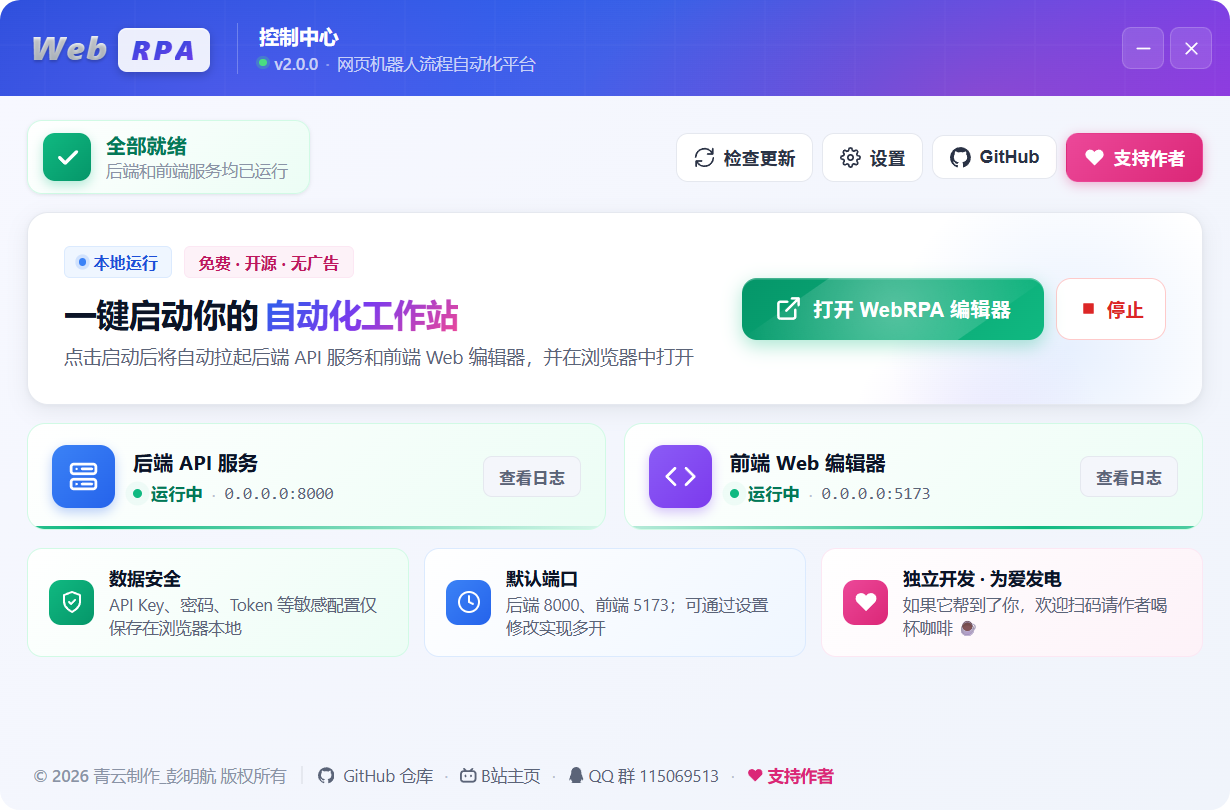
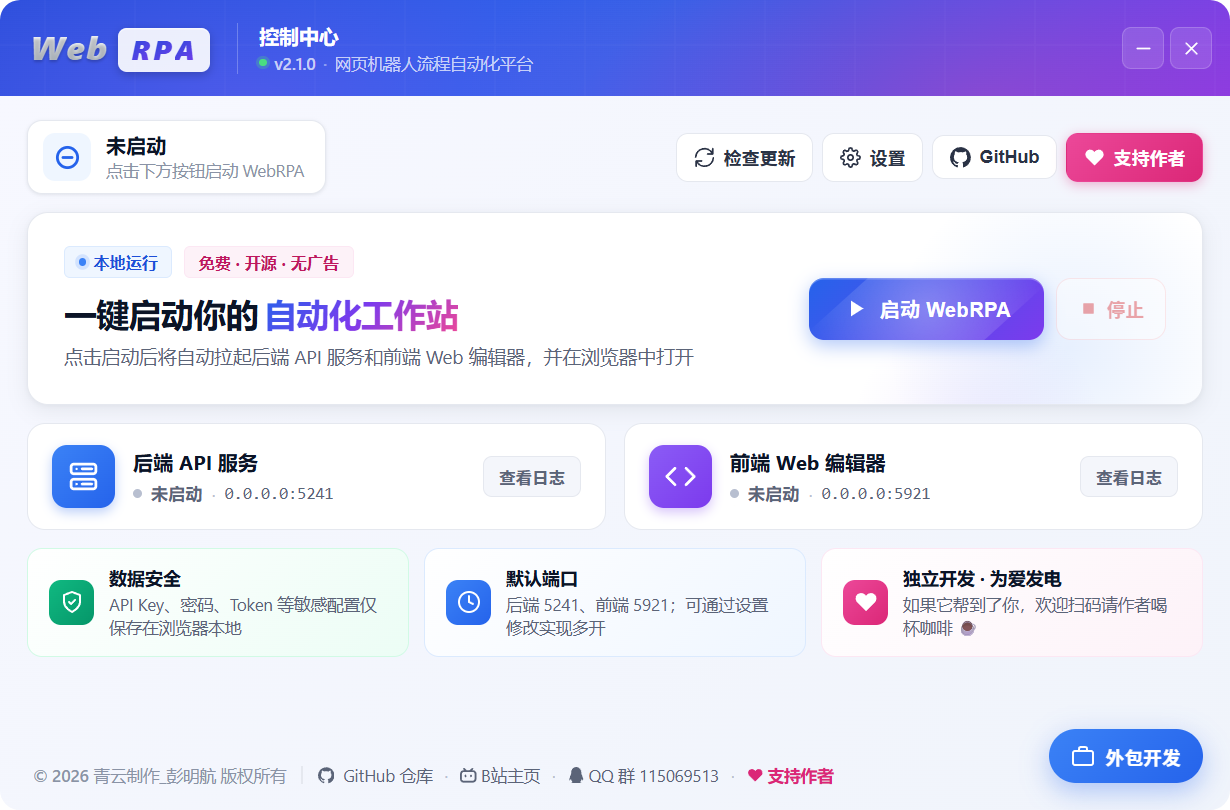
chore: 同步版本号/启动器/前后端更新(ELKJS布局 + AI模块硬校验 + 构建修复)

diff --git a/frameworkHub/src/index.js b/frameworkHub/src/index.js
@@ -99,8 +99,8 @@ app.get('/health', (req, res) => {
 // 获取最新版本号
 app.get('/api/version', (req, res) => {
   res.json({
-    version: '2.0.0',
-    releaseDate: '2026-06-14',
+    version: '2.1.0',
+    releaseDate: '2026-06-15',
     downloadUrl: 'https://github.com/pmh1314520/WebRPA/releases',
     changelog: '2.0.0 大版本：全面强化 AI 能力——新增 AI 小助手（对话式搭建/排查工作流，支持运行失败自动诊断与自愈重跑）、AI 数据处理模块（信息抽取/分类/摘要/翻译/情感/数据规整/语义去重/智能路由）、完整 Excel 自动化模块（基于 openpyxl + COM）；数据表格全量虚拟滚动、日志实时推送等大量体验优化。详见 GitHub Releases。'
   })

diff --git a/frontend/src/services/version.ts b/frontend/src/services/version.ts
@@ -1,5 +1,5 @@
 // 当前编辑器版本号
-export const CURRENT_VERSION = '2.0.0'
+export const CURRENT_VERSION = '2.1.0'
 
 // 默认工作流仓库地址
 const HUB_URL = 'https://hub.pmhs.top'

diff --git a/README.md b/README.md
@@ -5,8 +5,8 @@
 WebRPA - 网页机器人流程自动化工具
 </h1>
 <p align="center">
-  <img src="https://img.shields.io/badge/版本-2.0.0-blue.svg" alt="版本">
-  <img src="https://img.shields.io/badge/模块数量-544个-brightgreen.svg" alt="模块数量">
+  <img src="https://img.shields.io/badge/版本-2.1.0-blue.svg" alt="版本">
+  <img src="https://img.shields.io/badge/模块数量-540个-brightgreen.svg" alt="模块数量">
   <img src="https://img.shields.io/badge/协议-AGPL--3.0%20%2B%20商业授权-green.svg" alt="协议">
   <img src="https://img.shields.io/badge/作者-青云制作__彭明航-orange.svg" alt="作者">
   <img src="https://img.shields.io/badge/Python-3.13-blue.svg" alt="Python">
@@ -157,7 +157,7 @@ WebRPA/
 ├── backend/                 # 后端服务 (Python FastAPI)
 │   ├── app/
 │   │   ├── api/            # API 路由（浏览器、系统、触发器等）
-│   │   ├── executors/      # 模块执行器（544个模块的核心逻辑）
+│   │   ├── executors/      # 模块执行器（540个模块的核心逻辑）
 │   │   ├── models/         # 数据模型（工作流、变量、配置等）
 │   │   └── services/       # 核心服务（浏览器管理、任务调度等）
 │   ├── data/               # 数据文件（AI模型、配置等）